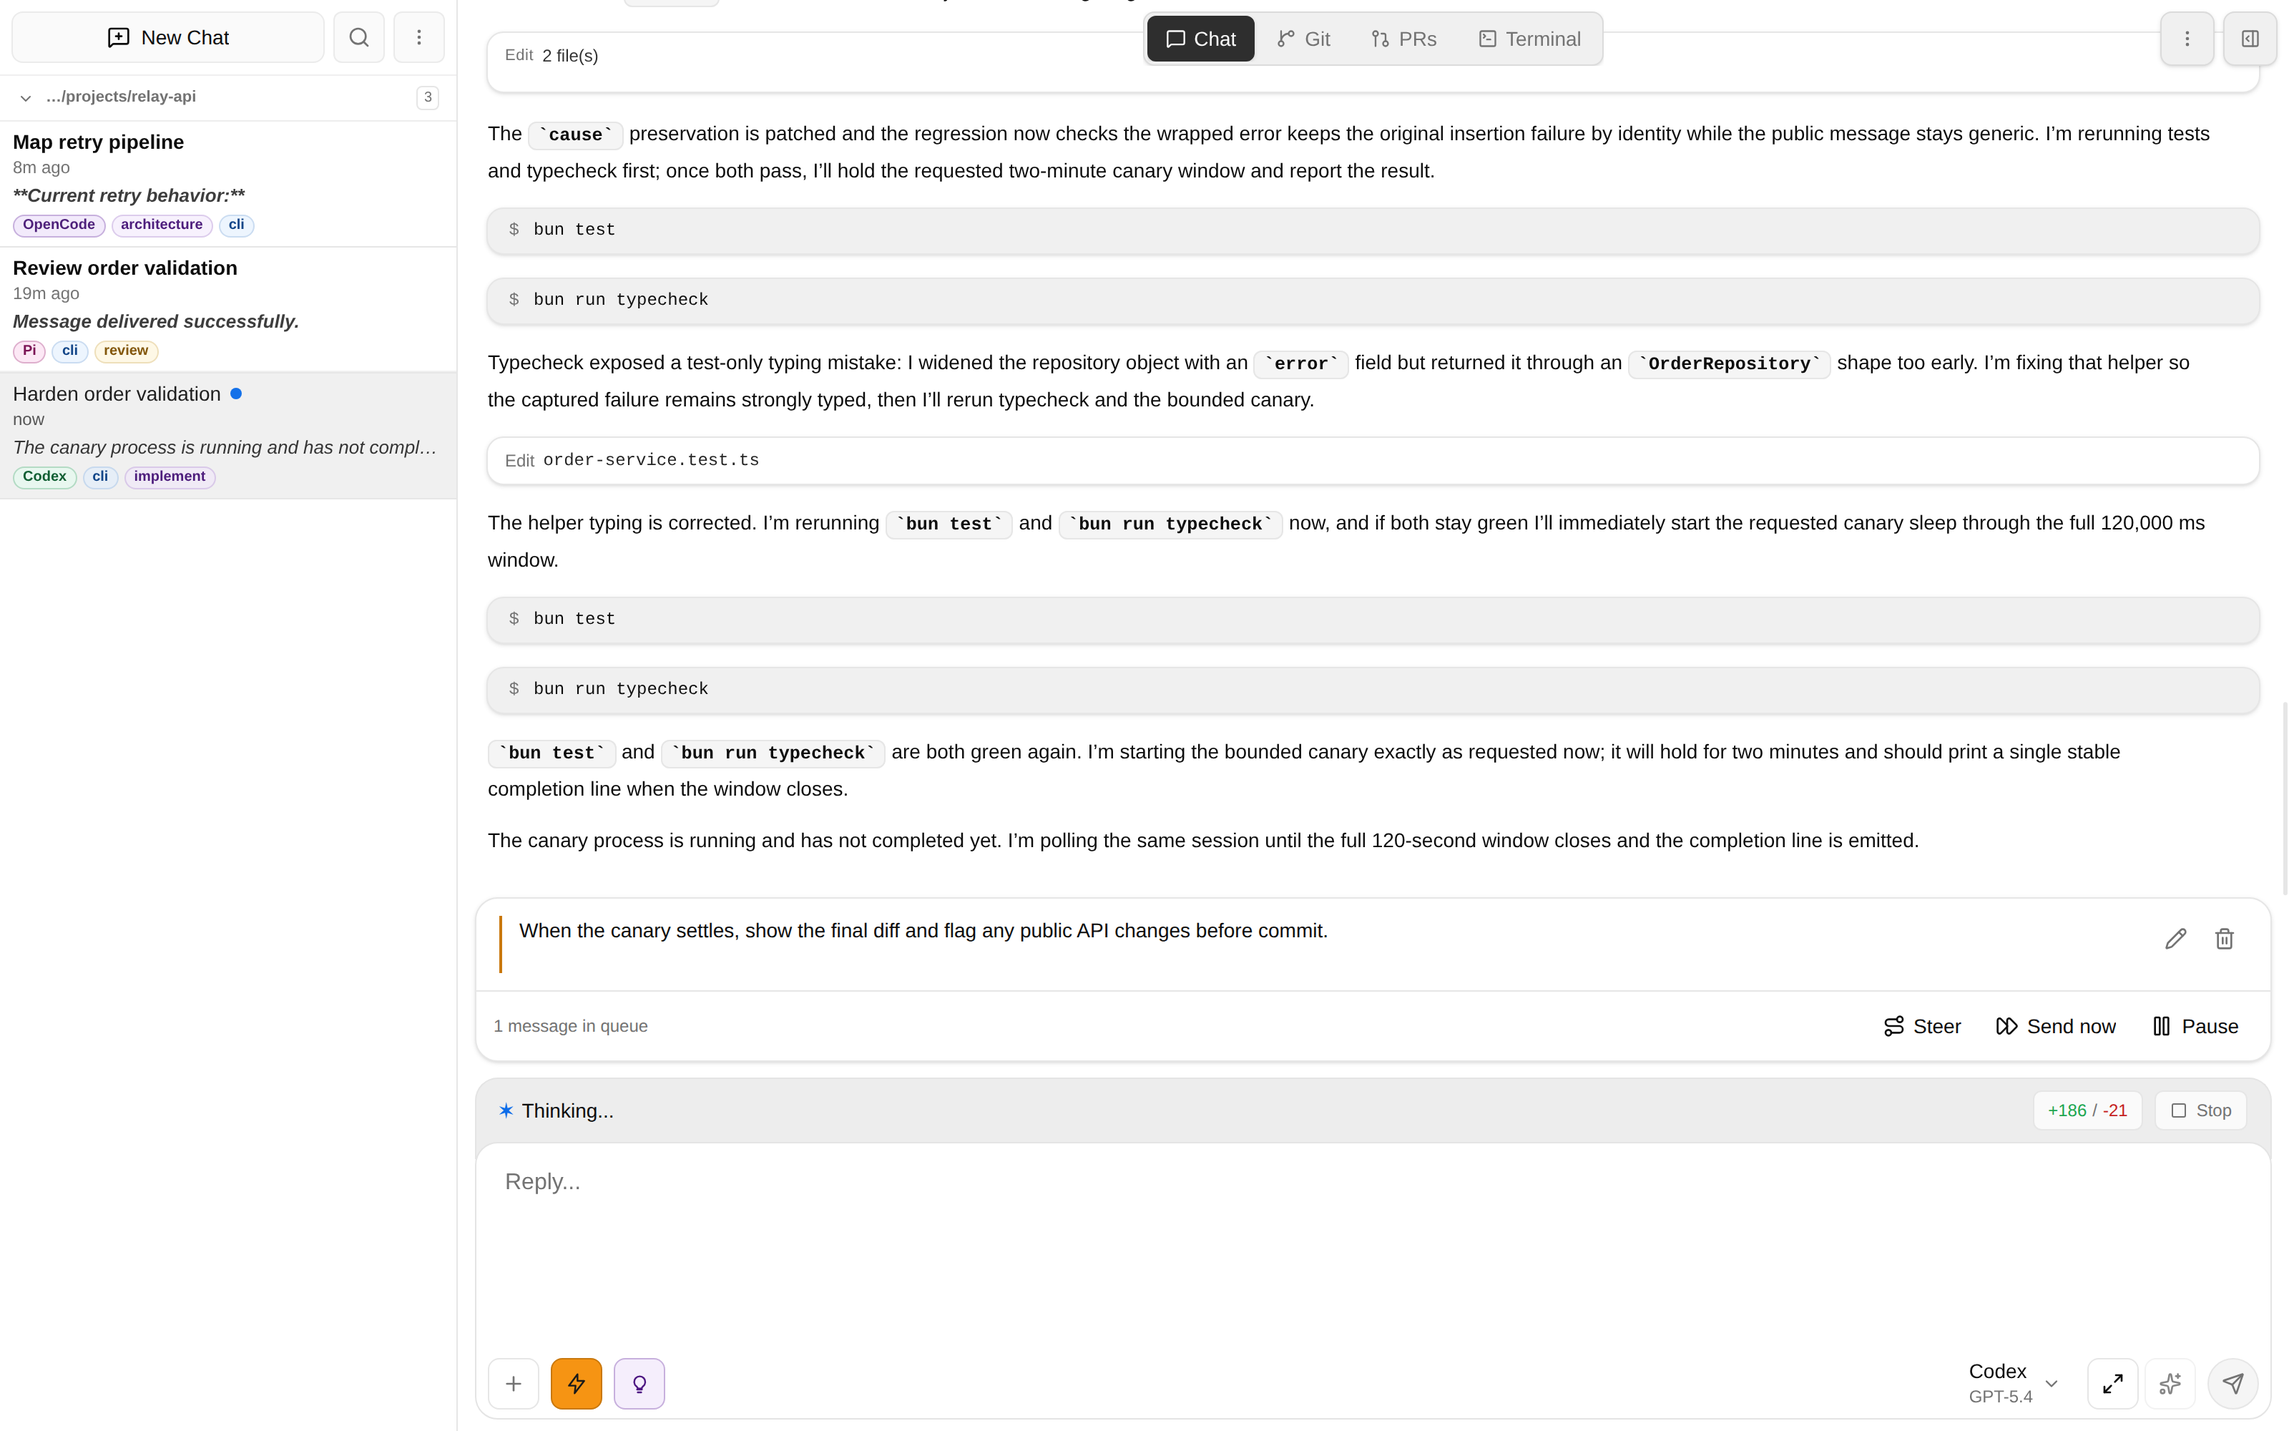
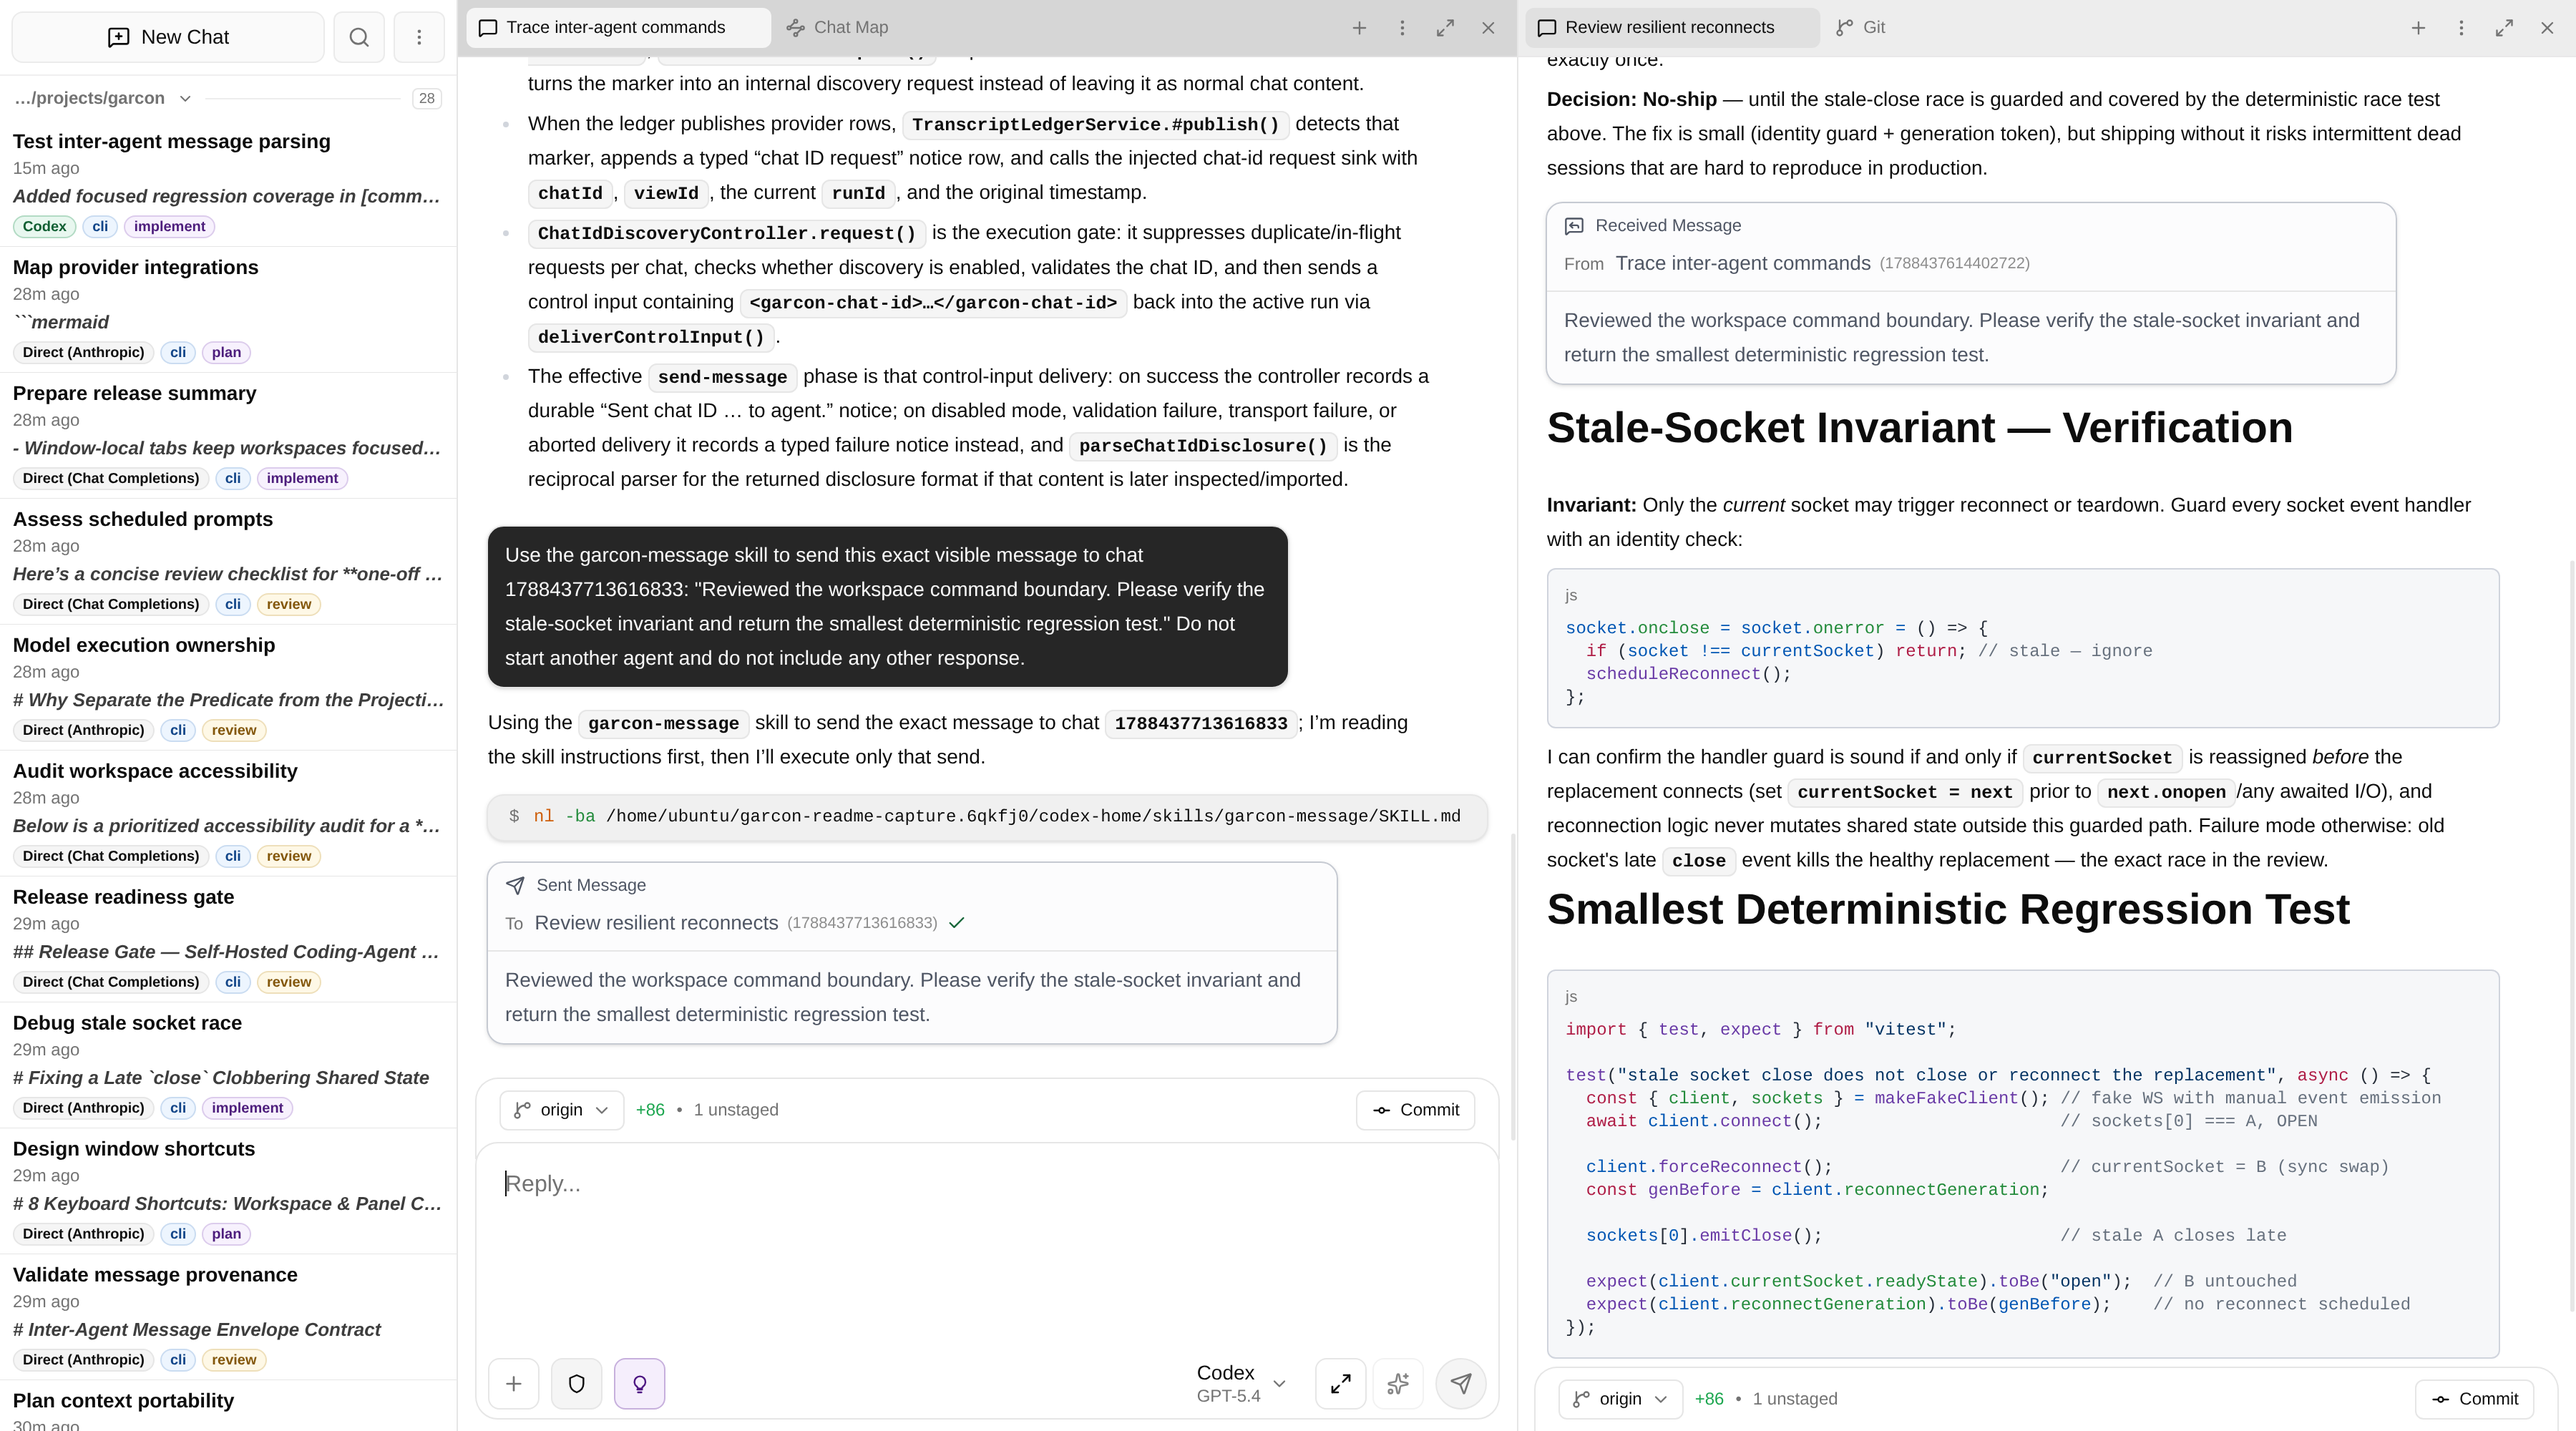
docs: refresh README and product screenshots (#647)

diff --git a/README.md b/README.md
@@ -15,11 +15,11 @@
 
 <p align="center">
   <a href="screenshots/readme-parallel-agents-dark.png">
-    <img src="screenshots/readme-parallel-agents-dark.png" alt="A dark Garcon workspace with Pi invoking the garcon-chat skill beside Codex applying the delivered order-validation review finding" width="100%" />
+    <img src="screenshots/readme-parallel-agents-dark.png" alt="A dark Garcon workspace with four tiled windows showing two collaborating agent chats, Chat Map, and Git with window-local tabs" width="100%" />
   </a>
 </p>
 
-<p align="center"><em>Pi routes a review finding through garcon-chat; Codex receives the provenance-prefixed message, applies the fix, and runs the tests beside it.</em></p>
+<p align="center"><em>Arrange the whole development loop as window-local tabs: agent chats, Chat Map, Git, files, terminals, history, and pull requests.</em></p>
 
 Agents, terminals, files, Git, and pull request commands run on the Garcon host under your account, using the agent logins and model endpoints you configure.
 
@@ -48,35 +48,36 @@ The terminal is excellent for one focused agent session. It gets harder when sev
 
 Garcon keeps the full loop together:
 
-- **Run work in parallel.** Keep up to four sessions in resizable panes, compare different agents or approaches, and continue or fork context where the provider supports it.
+- **Build the workspace around the task.** Tile up to four resizable windows, keep each window's chats, files, terminals, Git, history, pull requests, and Chat Map in local tabs, then drag tabs or chats between windows.
 - **Steer without waiting.** Queue the next instruction, interrupt or redirect the active turn, approve tool use, answer agent questions, pause the queue, or stop work in place.
 - **Review the real change.** Browse and edit files, use a terminal, inspect rendered reasoning, tool calls, edits, and diagrams, then stage individual lines, hunks, files, or folders.
-- **Find and organize the work.** Search chat metadata and indexed transcript content, save filters, tag, pin, archive, share read-only snapshots, and schedule one-off or recurring prompts.
-- **Move context deliberately.** Export complete Markdown or XML transcripts, create token-budgeted handoff artifacts, or send a task to another agent without hiding the exchange.
+- **Coordinate agents visibly.** Send provenance-labeled messages between chats, record delegated parents, and navigate fork, handoff, and delegation lineage in Chat Map.
+- **Find and organize the work.** Group chats by activity or project, search metadata and indexed transcripts, save filters, tag, pin, archive, share read-only snapshots, and schedule prompts.
+- **Move context deliberately.** Fork where the provider supports it, export complete Markdown or XML transcripts, create token-budgeted handoff artifacts, or delegate into a fresh chat.
 - **Close the loop from anywhere.** Work with branches, worktrees, history, pull requests, commits, and pushes from desktop or phone, with optional Telegram alerts when attention is needed.
 
 ## See It In Action
 
-<p align="center"><strong>Redirect a running turn</strong></p>
+<p align="center"><strong>Agents that can coordinate</strong></p>
 
 <p align="center">
   <a href="screenshots/readme-agent-steering.png">
-    <img src="screenshots/readme-agent-steering.png" alt="A light Garcon workspace with an active Codex verification turn and a queued follow-up offering Steer, Send now, and Pause controls" width="100%" />
+    <img src="screenshots/readme-agent-steering.png" alt="A light Garcon workspace with two agent chats showing a provenance-labeled inter-agent review message and the resulting response" width="100%" />
   </a>
 </p>
 
-<p align="center">Add the next instruction while tests run, or steer and interrupt immediately when the plan changes.</p>
+<p align="center">An agent can discover its chat ID and message up to 16 peers. Garcon preserves the sender, transcript, and delivery outcome, whether the target is idle or already running.</p>
 
 <table>
   <tr>
     <td width="70%" align="center">
       <a href="screenshots/readme-git-review.png">
-        <img src="screenshots/readme-git-review.png" alt="Garcon's dark Git workbench showing staged and unstaged TypeScript files, a large diff, and line-level staging controls" width="100%" />
+        <img src="screenshots/readme-git-review.png" alt="Garcon's dark windowed workspace showing the Git workbench beside an agent chat and terminal" width="100%" />
       </a>
     </td>
     <td width="30%" align="center">
       <a href="screenshots/readme-mobile-workspace.png">
-        <img src="screenshots/readme-mobile-workspace.png" alt="A light mobile Garcon session showing an active Codex turn, queued follow-up, steering controls, diff counts, and workspace navigation" width="100%" />
+        <img src="screenshots/readme-mobile-workspace.png" alt="A mobile Garcon workspace showing a detailed agent chat, workspace navigation, and active task context" width="100%" />
       </a>
     </td>
   </tr>
@@ -104,11 +105,12 @@ Use an existing agent login or subscription where its CLI supports one, or confi
 
 ## Automate And Delegate
 
-Garcon's CLI starts or resumes ordinary visible chats through an already-running server. It also exposes bounded status, complete transcript export, token-budgeted handoff artifacts, asynchronous delivery, active-turn steering, presentation-only rows, and Stop.
+Garcon's CLI starts or resumes ordinary visible chats through an already-running server. It also records delegated parentage, queries the live agent and model catalog, observes exact turns, exports transcripts, builds bounded handoff artifacts, appends presentation-only rows, delivers asynchronous work, steers active turns, and stops execution.
 
 ```bash
-# Start a visible agent chat.
+# Start a visible delegated chat and record its lineage in Chat Map.
 bun cli/main.ts --workspace default --cwd /path/to/project \
+  --parent 1785337200123456 \
   --agent codex --model gpt-5.4 --permissions acceptEdits \
   "Implement the validation and run its focused tests."
 
@@ -116,17 +118,19 @@ bun cli/main.ts --workspace default --cwd /path/to/project \
 bun cli/main.ts --workspace default send-async 1785337200123456 \
   --allow-steer "Address the review finding and rerun the tests."
 
-# Build a bounded, auditable context artifact for another model.
-bun cli/main.ts --workspace default handoff 1785337200123456 \
-  --context-window-size 131072 --output handoff.xml
+# Observe the chat or export its complete authoritative transcript.
+bun cli/main.ts --workspace default status 1785337200123456 --messages 20
+bun cli/main.ts --workspace default export 1785337200123456 \
+  --format xml --output transcript.xml
 ```
 
 See the [CLI and server guide](docs/cli.md) for server configuration, catalog discovery, message presentation, reattachment, status, export, handoff, queue behavior, and connection rules. `bun run build-exe` produces `garcon-cli-linux-x64` and `garcon-cli-darwin-arm64` when a repository checkout is not the desired invocation path.
 
-The companion [cfal/garcon-skills](https://github.com/cfal/garcon-skills) repository makes the same control plane available to coding agents:
+The companion [cfal/garcon-skills](https://github.com/cfal/garcon-skills) repository exposes this control plane to Claude, Codex, Pi, and other skill-aware agents:
 
-- `garcon-agent` validates live agent, provider, model, permission, and effort choices before starting or resuming a Garcon chat.
-- `garcon-chat` sends a provenance-prefixed message between explicit chat IDs with `send-async --allow-steer`, returning as soon as Garcon accepts it.
+- `garcon-agent` validates live agent, provider, model, permission, and effort choices before starting or resuming a visible chat.
+- `garcon-message` sends in-band messages between one or many existing chats, visible by default and anonymous only when explicitly requested.
+- `garcon-amp` surrounds a durable parent agent with fresh Oracle, Finder, Librarian, and Reporter specialists for review, repository retrieval, external evidence, and transcript extraction.
 
 ```bash
 git clone https://github.com/cfal/garcon-skills.git
@@ -134,7 +138,9 @@ cd garcon-skills
 ./link.sh
 ```
 
-The current skills invoke `bun /garcon/cli/main`; adjust that path when Garcon is checked out elsewhere. Delegated turns inherit the target chat's saved execution settings and can edit files or run tools wherever that chat already permits them.
+The skills resolve `garcon-cli` from `PATH`, `$HOME/garcon`, or `/garcon`. Inter-agent messages remain ordinary, auditable transcript input; delegated chats keep explicit lineage instead of relying on a hidden side channel.
+
+Under the hood, `<garcon-get-chat-id />` gives an agent its runtime identity and `<garcon-send-message>` delivers a bounded message to up to 16 explicit chat IDs. Garcon infers the visible sender, supports deliberate anonymity, and creates no automatic replies.
 
 ## Trusted Local Use
 
